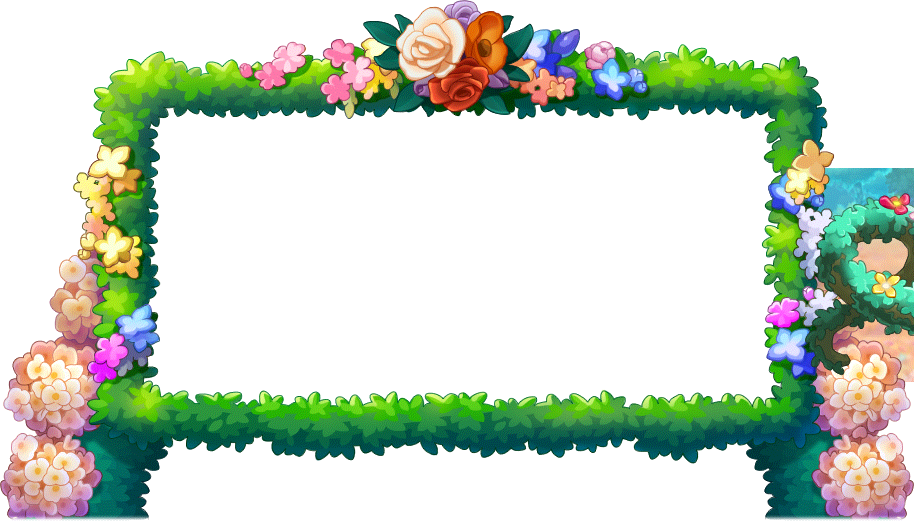
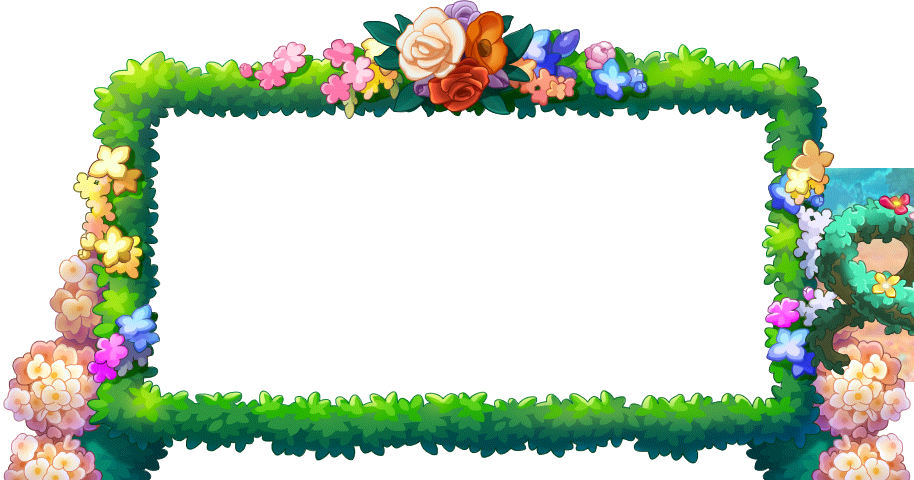
add cheerleader

diff --git a/index.html b/index.html
@@ -34,6 +34,7 @@
             <span id="input"></span>
             <img id="border" src="images/border.png">
             <img id="NPC0" src="images/9062540.gif">
+            <img id="cheer0" src="images/cheer.gif">
             <div id="bgmbox">
                 <audio controls loop id="bgm">
                     <source src="audio/18th_Event.mp3" type="audio/mp3">

diff --git a/styles/index.css b/styles/index.css
@@ -106,6 +106,12 @@ p {
     left: 1169px;
 }
 
+#cheer0 {
+    position: absolute;
+    top: 530px;
+    left: 1040px;
+}
+
 #stamp {
     position: absolute;
     top: 690px;
